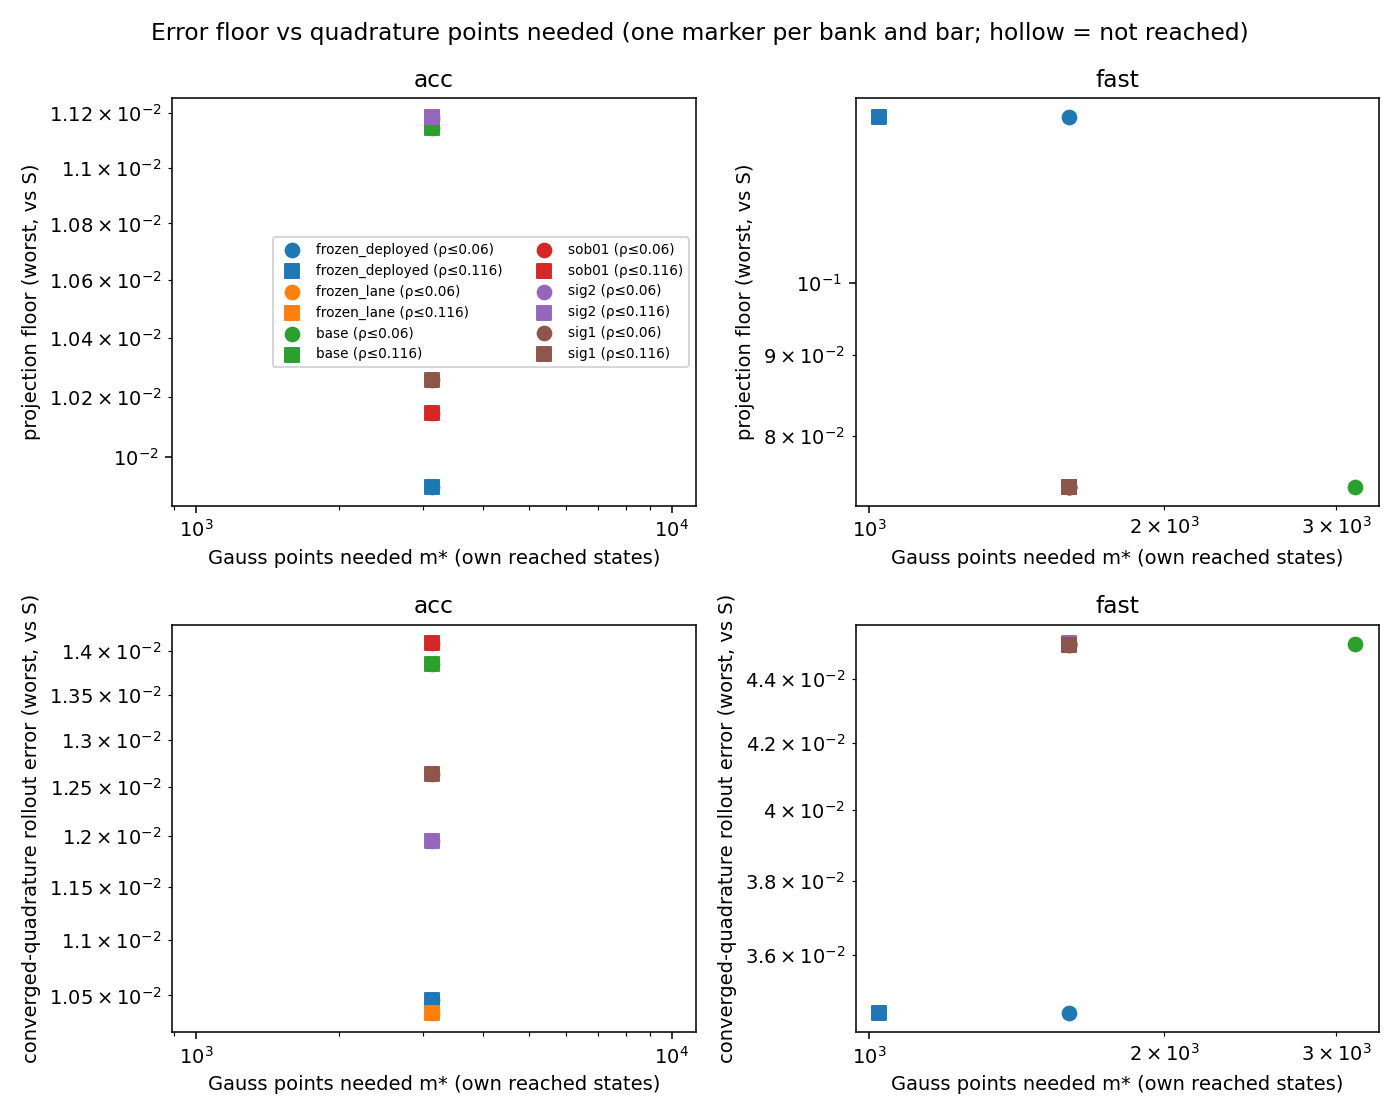
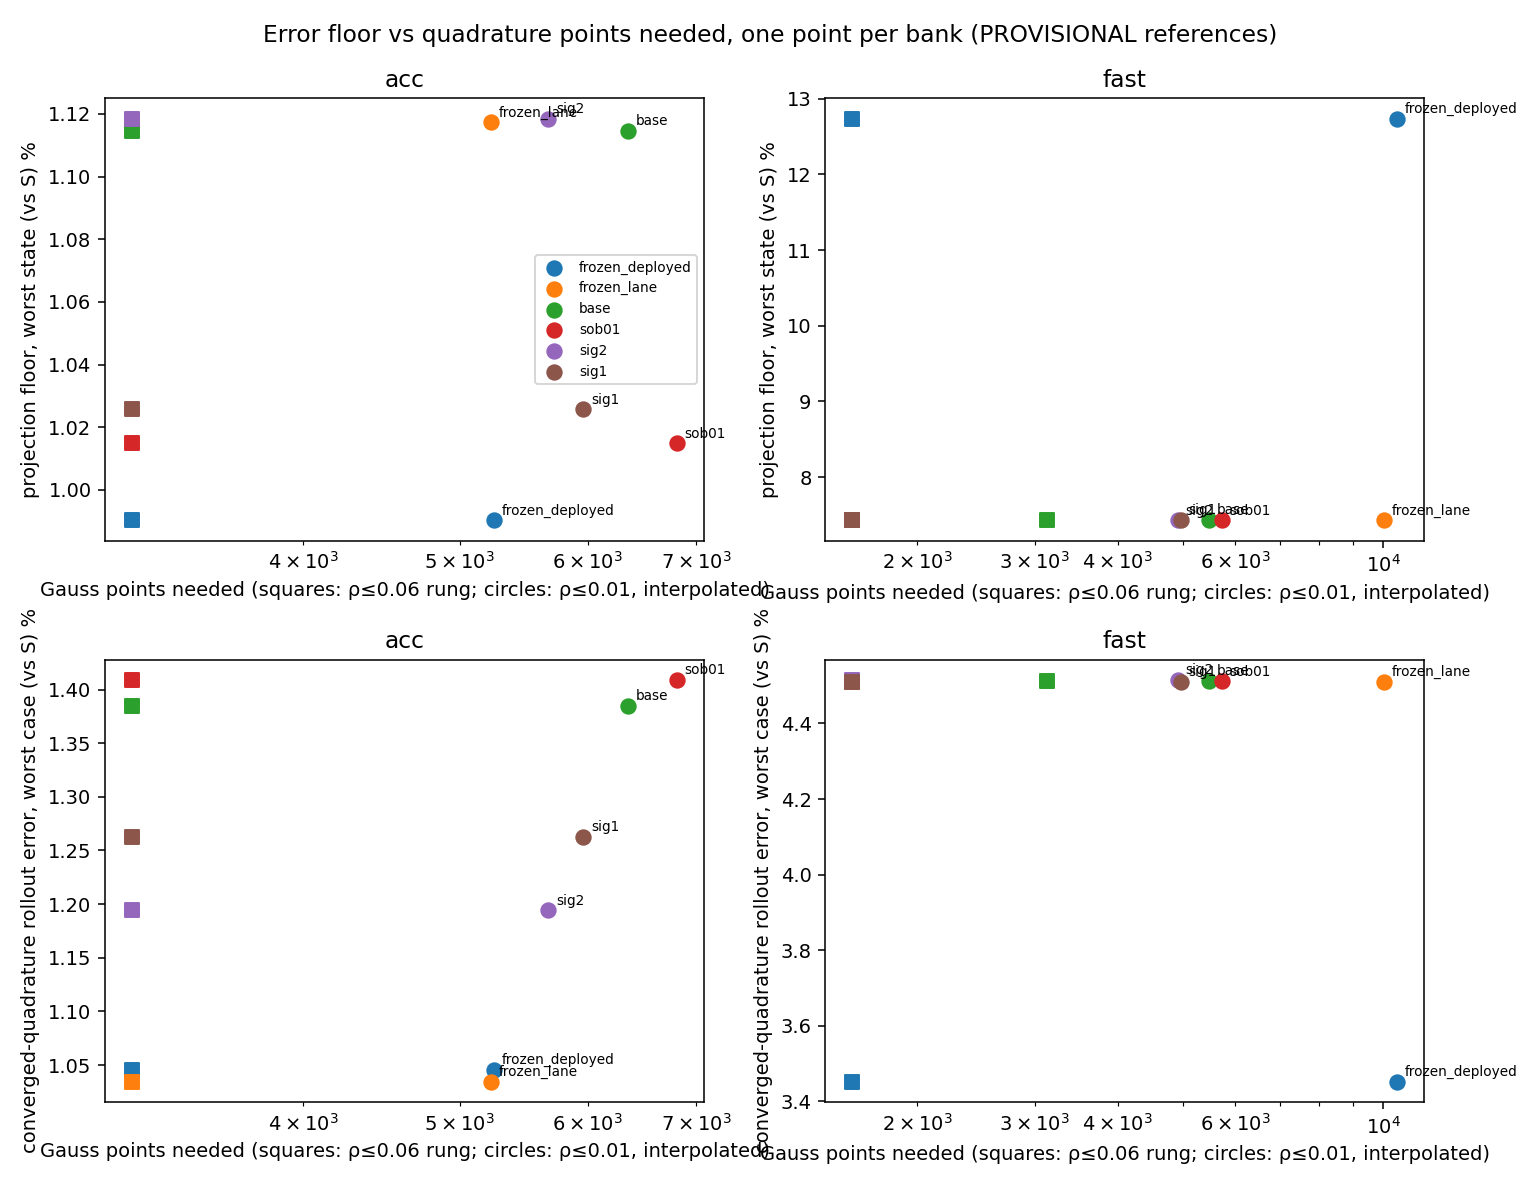
mirror of 6d1a4bfee: jcp-smooth-bank: tr2 job audit (GO), derivatives plot, frontier rework

diff --git a/experiments/jcp-smooth-bank/make_report.py b/experiments/jcp-smooth-bank/make_report.py
@@ -292,24 +292,38 @@ def plots(E, M, out):
     out.mkdir(exist_ok=True)
     banks = [b for b in ORDER if b in M]
     cols = {b: c for b, c in zip(banks, plt.rcParams['axes.prop_cycle'].by_key()['color'] * 3)}
-    # frontier
-    fig, ax = plt.subplots(2, 2, figsize=(10, 8))
+    # frontier: one marker per bank; x = Gauss points to reach the bar on its own reached states
+    fig, ax = plt.subplots(2, 2, figsize=(11, 8.5))
     for j, s in enumerate(SETTINGS):
-        for b in banks:
-            for i, (key, ylab) in enumerate((('e_val_max', 'projection floor (worst, vs S)'),
-                                            ('E_S', 'converged-quadrature rollout error (worst, vs S)'))):
-                for bb, mk in ((0.06, 'o'), (0.116, 's')):
-                    m = M[b][s]['mstar'][f'gref|G|{bb}']
-                    x = m if m is not None else 2 * MMAX['G']
-                    ax[i, j].scatter(x, M[b][s][key], color=cols[b], marker=mk, s=50,
-                                     facecolors='none' if m is None else cols[b],
-                                     label=f'{b} (ρ≤{bb})' if (i == 0 and j == 0) else None)
-                ax[i, j].set_xscale('log'); ax[i, j].set_yscale('log')
-                ax[i, j].set_xlabel('Gauss points needed m* (own reached states)'); ax[i, j].set_ylabel(ylab)
-                ax[i, j].set_title(f'{s}')
-    ax[0, 0].legend(fontsize=7, ncol=2)
-    fig.suptitle('Error floor vs quadrature points needed (one marker per bank and bar; hollow = not reached)')
+        for i, (key, ylab) in enumerate((('e_val_max', 'projection floor, worst state (vs S) %'),
+                                        ('E_S', 'converged-quadrature rollout error, worst case (vs S) %'))):
+            for b in banks:
+                y = 100 * M[b][s][key]
+                for bb, mk, lab in ((0.06, 's', 'm*(ρ≤0.06), confirmed rung'), (0.01, 'o', 'm(ρ≤0.01), interpolated')):
+                    m = interp_m(E, b, s, bb) if bb == 0.01 else M[b][s]['mstar'][f'gref|G|{bb}']
+                    if m is None:
+                        continue
+                    ax[i, j].scatter(m, y, color=cols[b], marker=mk, s=55, label=(f'{b}' if bb == 0.01 else None))
+                    if bb == 0.01:
+                        ax[i, j].annotate(b, (m, y), fontsize=7, xytext=(4, 3), textcoords='offset points')
+            ax[i, j].set_xscale('log')
+            ax[i, j].set_xlabel('Gauss points needed (squares: ρ≤0.06 rung; circles: ρ≤0.01, interpolated)')
+            ax[i, j].set_ylabel(ylab); ax[i, j].set_title(s)
+    ax[0, 0].legend(fontsize=7)
+    fig.suptitle('Error floor vs quadrature points needed, one point per bank (PROVISIONAL references)')
     fig.tight_layout(); fig.savefig(out / 'frontier.png', dpi=140); plt.close(fig)
+    # derivatives: projection floor and gradient error per bank (both stencils on the common support)
+    fig, ax = plt.subplots(1, 2, figsize=(12, 4.5))
+    w_ = .27
+    for j, s in enumerate(SETTINGS):
+        x = np.arange(len(banks))
+        ax[j].bar(x - w_, [M[b][s]['e_val_med'] for b in banks], w_, label='projection floor (median)')
+        ax[j].bar(x, [M[b][s]['e_grad2c_med'] for b in banks], w_, label='gradient error vs D2 (median)')
+        ax[j].bar(x + w_, [M[b][s]['e_grad4_med'] for b in banks], w_, label='gradient error vs D4 (median)')
+        ax[j].set_yscale('log'); ax[j].set_xticks(x); ax[j].set_xticklabels(banks, rotation=30, fontsize=8)
+        ax[j].set_title(f'{s}: representation of the S reference states (257² nodes, PROVISIONAL)')
+    ax[0].legend(fontsize=8)
+    fig.tight_layout(); fig.savefig(out / 'derivatives.png', dpi=140); plt.close(fig)
     # ladders
     fig, ax = plt.subplots(1, 2, figsize=(12, 4.8))
     for j, s in enumerate(SETTINGS):
@@ -529,7 +543,7 @@ def main():
     w(f"\nRanking of useful H2 winners (A2.4/A4): {', '.join(V.get('ranking_useful_H2', [])) or 'none'}.")
     w('')
     w('## Plots\n')
-    for p in ('frontier', 'ladders', 'e2e', 'spectra'):
+    for p in ('frontier', 'ladders', 'derivatives', 'e2e', 'spectra'):
         w(f'![{p}](plots/{p}.png)\n')
     w('## Glossary\n')
     for k, v in GLOSSARY:

diff --git a/experiments/jcp-smooth-bank/audits/codex-job-tr2.md b/experiments/jcp-smooth-bank/audits/codex-job-tr2.md
@@ -1,0 +1,13 @@
+**GO for submission.** No blocking defect found. Read-only audit; no files modified.
+
+| Item | Verdict | Finding |
+|---|---|---|
+| Arms/spec | **CORRECT** | `sob001`: λ=0.01; `sob1`: λ=1; `coarse`: 129 nodes; `base_s1`: seed 1. All retain σ=4 and the prescribed training recipe. Matches §3.3 as amended by A1.5/A1.7. |
+| Provenance | **CORRECT** | Both jobs’ manifests, file sizes and provenance hashes match staged files and recorded git blobs. Trainer, dependencies and staging code are byte-identical to audited tr1b. |
+| Seed behavior | **CORRECT** | `--seed 1` changes parameter/latent-code initialization and value-point sampling. State selection explicitly stays seed 0; the CLI seed does not change trajectory generation. |
+| 129-node path | **CORRECT** | Generator, coordinates, neighbours and rotation use the supplied node count. Interior has **16,129 points**, exceeding `p_sub=4096`; FD spacing is **1/128**, with zero boundary neighbours. Independent indexing/FD check passed to <8×10⁻¹⁴. Rotation uses that same interior. Full coarse GPU training remains untested. |
+| Gates | **CORRECT** | Coarse skips R0 and R2a appropriately; its FOM residual check remains active. `base_s1` retains R0 but skips seed-0 R2a. Sobolev arms likewise retain R0 and skip R2a. |
+| Batch/resources | **CORRECT** | Same allocation as completed tr1b: four A100s, 320G host memory, eight CPUs, seven hours. Separate GPU/output per arm, f64/highest precision, GPU preflights, checksums and failure propagation retained. Bash syntax passes. |
+| Memory/time claims | **NEEDS-RESTATEMENT** | tr1b **actually completed on A100-PCIE-40GB**; `sob01` took **4.675 h training, 4.732 h total**. λ=1 changes a scalar weight, not workload dimensions or iteration count, so comparable cost and seven-hour feasibility are well supported—but not measured for `sob1`. A5’s “under 2GB extra” remains an unmeasured bound. |
+
+No **WRONG** items in the staged job.

diff --git a/experiments/jcp-smooth-bank/report.md b/experiments/jcp-smooth-bank/report.md
@@ -192,6 +192,8 @@ Ranking of useful H2 winners (A2.4/A4): none.
 
 ![ladders](plots/ladders.png)
 
+![derivatives](plots/derivatives.png)
+
 ![e2e](plots/e2e.png)
 
 ![spectra](plots/spectra.png)
